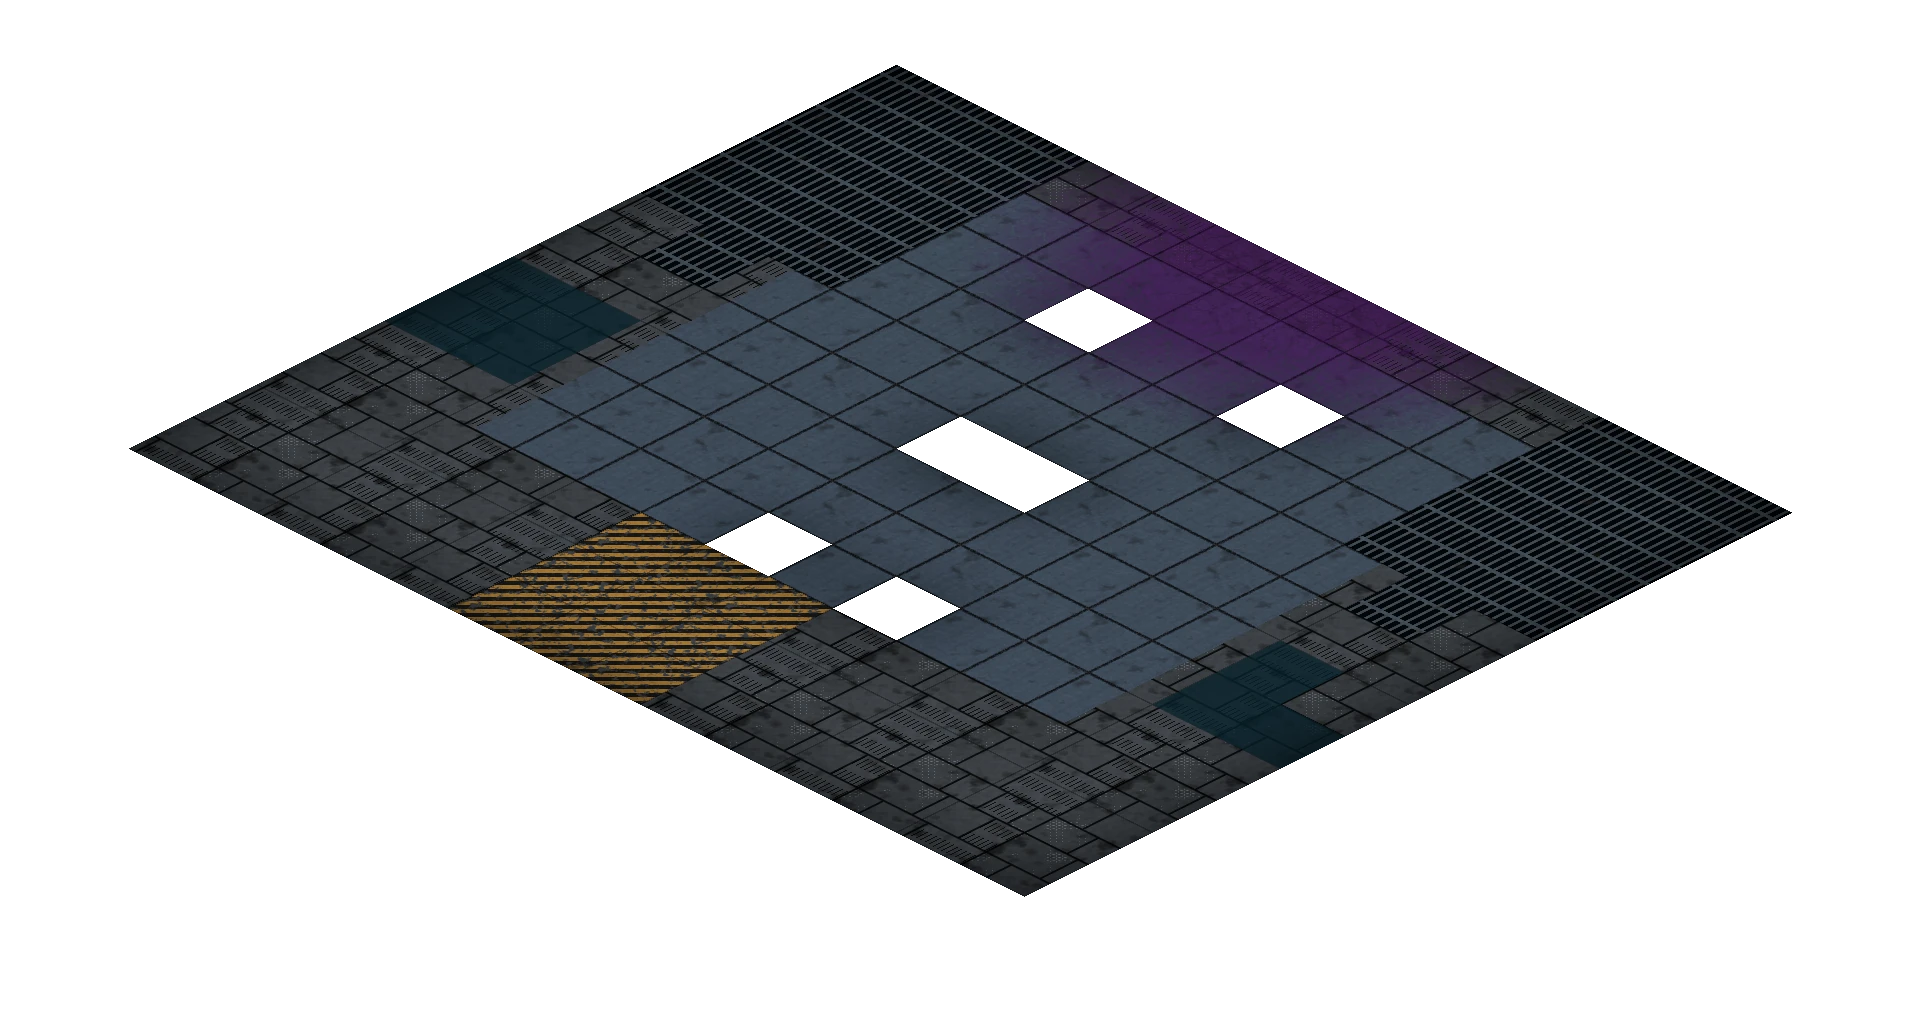
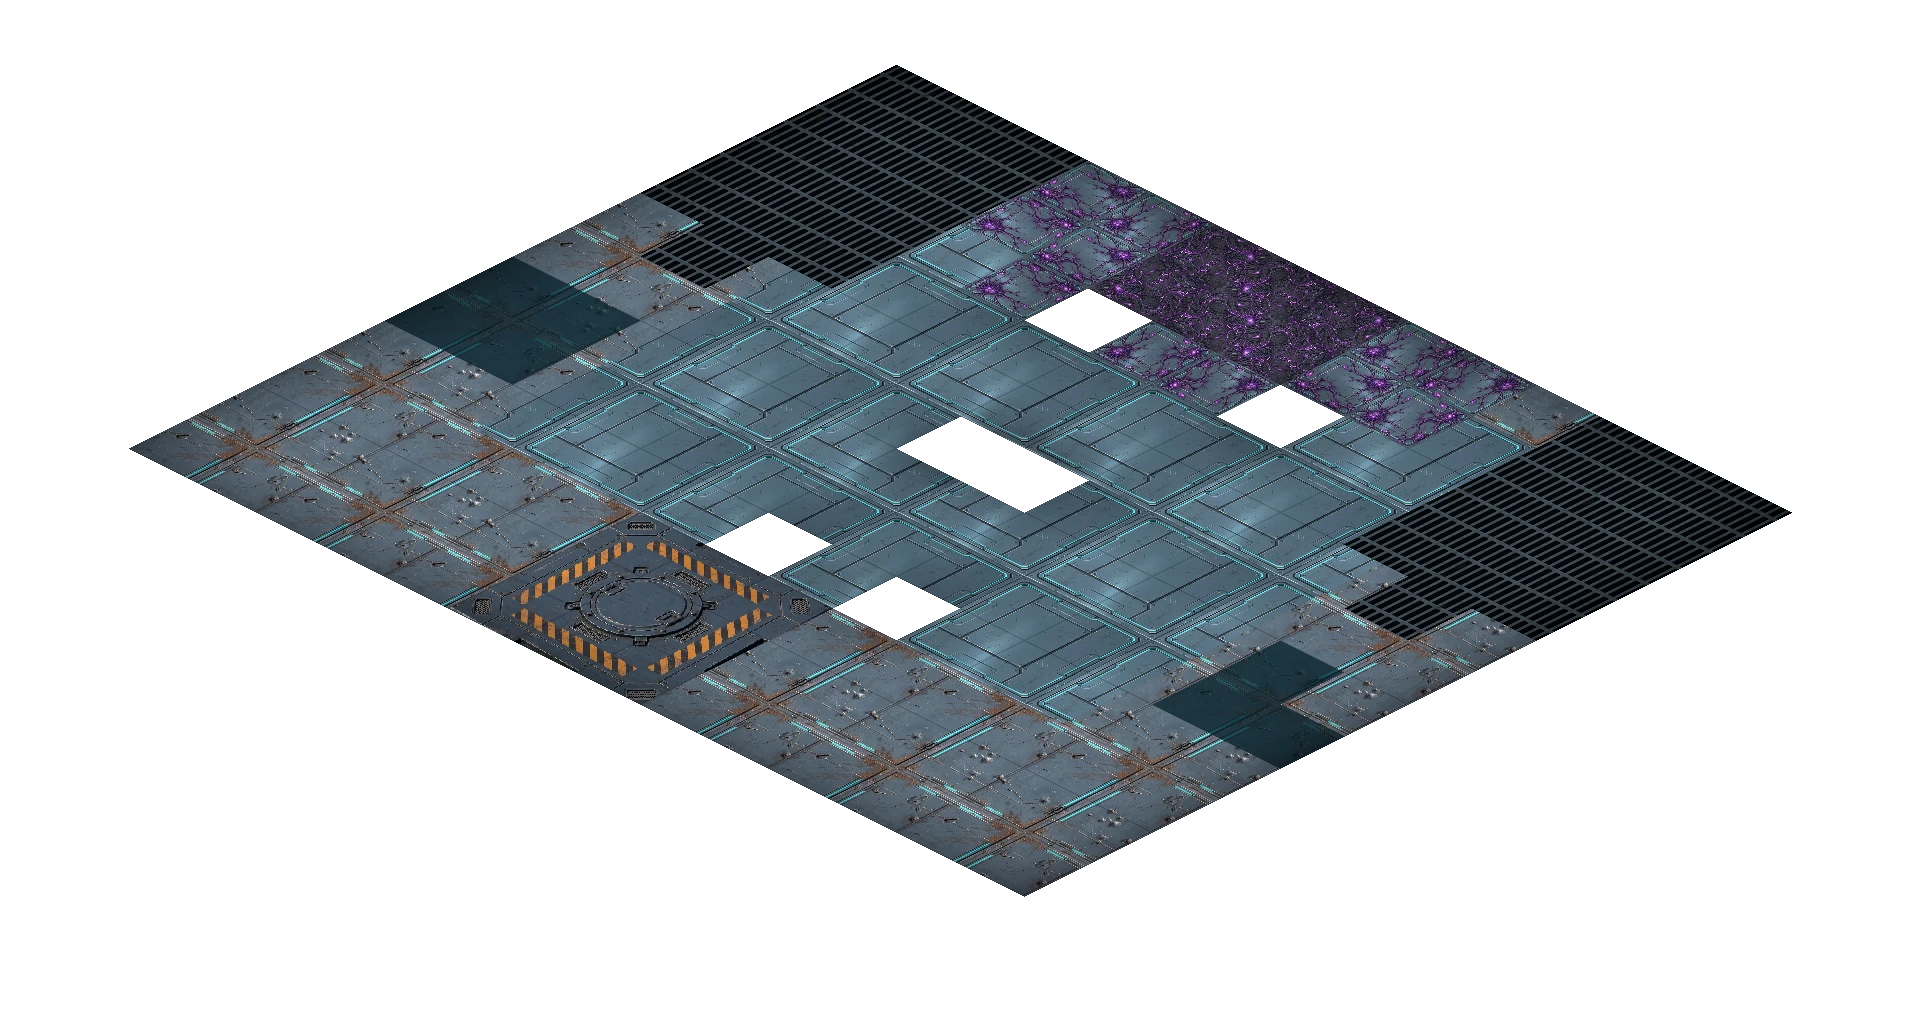
Démo Némésis : sol refait avec les dalles isométriques de Max
- tools/iso_tile.py : face du dessus d'une dalle ramenée au losange 2:1
- assets2d/tiles : métal propre, abîmé, contaminé, roche alien, trappe du sas
- sol précalculé par zones (centre, pourtour, sas 3×3, contamination autour de la cuve)

Claude-Session: https://claude.ai/code/session_017NXKp2adArjCmDg9N26bo3

Changed region(s): [[0.0625, 0.1562, 0.8438, 0.875]]

diff --git a/tools/build_phaser_nemesis.py b/tools/build_phaser_nemesis.py
@@ -34,6 +34,10 @@ def nemesis_map():
     return re.findall(r"'([^']+)'", block)
 
 
+def ndimage_blur(a, s):
+    return np.asarray(Image.fromarray((np.clip(a, 0, 1) * 255).astype(np.uint8)).filter(ImageFilter.GaussianBlur(s)), np.float32) / 255
+
+
 def tex(name, size=None):
     im = Image.open(os.path.join(SRC, "textures", name + ".png")).convert("RGB")
     a = np.asarray(im, dtype=np.float32) / 255.0
@@ -94,6 +98,51 @@ def bake_floor(rows):
     col[mat == 1] = (col[mat == 1] * 0.45 + g1 * 0.55) * np.array([0.78, 0.86, 0.95])
     col[mat == 2] *= 0.8
 
+    # Dalles isométriques de Max (assets2d/tiles, extraites par tools/iso_tile.py) : chacune couvre S×S cases,
+    # alignée sur la grille ; les dalles contaminées varient par miroir pour éviter la répétition.
+    D = [(x, y) for y, r in enumerate(rows) for x, c in enumerate(r) if c == "D"][0]
+    dist = np.hypot(gx - D[0], (gy - D[1]) * 1.15)
+    tdist = np.hypot(txc - D[0], (tyc - D[1]) * 1.15)
+    tiles_dir = os.path.join(ROOT, "assets2d", "tiles")
+    evac = [(x, y) for y, r in enumerate(rows) for x, c in enumerate(r) if c in "ES"]
+    ex0, ey0 = min(p[0] for p in evac), min(p[1] for p in evac)
+    plan = [  # (masque de cases, dalle, S, ancre fixe ou None)
+        ((mat == 0) & (tdist >= 3.3), "metal_abime", 2, None),
+        ((mat == 1) & (tdist >= 3.3), "metal_propre", 2, None),
+        ((mat == 3), "trappe_sas", 3, (ex0, ey0)),
+        (np.isin(mat, [0, 1]) & (tdist < 3.3) & (tdist >= 1.6), "metal_contamine", 1, None),
+        (np.isin(mat, [0, 1]) & (tdist < 1.6), "rock_alien", 1, None),
+    ]
+    for m, name, span, anchor in plan:
+        path = os.path.join(tiles_dir, name + ".png")
+        if not os.path.exists(path):
+            continue
+        t = np.asarray(Image.open(path).convert("RGBA"), np.float32) / 255
+        th, tw = t.shape[:2]
+        lum = t[..., :3].mean(axis=2)
+        gyl, gxl = np.gradient(ndimage_blur(lum, 1.2))
+        tn = np.dstack([-gxl * 6, -gyl * 6, np.ones_like(lum)])
+        tn /= np.linalg.norm(tn, axis=2, keepdims=True)
+        if anchor:
+            bx, by = anchor[0], anchor[1]
+        else:
+            bx, by = (txc // span) * span, (tyc // span) * span
+        u = (gx + 0.5 - bx) / span
+        v = (gy + 0.5 - by) / span
+        if span == 1:  # miroirs selon la case
+            hv = (txc * 7 + tyc * 13) % 4
+            sw = (hv & 1) == 1
+            u, v = np.where(sw, v, u), np.where(sw, u, v)
+            fl = (hv & 2) == 2
+            u, v = np.where(fl, 1 - v, u), np.where(fl, 1 - u, v)
+        u, v = np.clip(u, 0, 1), np.clip(v, 0, 1)
+        px = np.clip(((u - v) * 0.5 + 0.5) * (tw - 1), 0, tw - 1).astype(int)
+        py = np.clip((u + v) * 0.5 * (th - 1), 0, th - 1).astype(int)
+        col[m] = t[py[m], px[m], :3]
+        nor[m] = tn[py[m], px[m]] * 0.5 + 0.5
+        mat[m] = 10  # déjà en coordonnées écran : pas de rotation de normale
+    tile_done = mat == 10
+
     # eau : fond sombre bleu-vert (la surface animée est faite dans le jeu)
     water = inside & (ch == "~")
     col[water] = col[water] * 0.25 + np.array([0.02, 0.10, 0.13])
@@ -108,19 +157,10 @@ def bake_floor(rows):
     ao = 1.0 - 0.62 * blur[bi, bj]
     col *= ao[..., None]
 
-    # contamination autour de la cuve (artefact D) et du nid de la Carapace : chair alien violacée
-    flesh = tex("flesh_albedo")
-    D = [(x, y) for y, r in enumerate(rows) for x, c in enumerate(r) if c == "D"][0]
-    dist = np.hypot(gx - D[0], (gy - D[1]) * 1.15)
-    noise = flesh[np.clip(((gy * 0.37) % 1 * 511).astype(int), 0, 511), np.clip(((gx * 0.37) % 1 * 511).astype(int), 0, 511), 0]
-    k = np.clip((3.4 - dist) / 2.2 + (noise - 0.5) * 0.9, 0, 1) * (mat != 4)
-    purple = np.array([0.20, 0.07, 0.26]) * (0.6 + noise[..., None])
-    col = col * (1 - 0.75 * k[..., None]) + purple * (0.75 * k[..., None])
-
     # joints de grille très discrets (lisibilité tactique sans quadrillage criard)
     fx, fy = np.abs(gx - np.rint(gx)), np.abs(gy - np.rint(gy))
     seam = ((fx > 0.485) | (fy > 0.485)) & (mat != 4) & ~water
-    col[seam] *= 0.7
+    col[seam] *= 0.82
 
     alpha = (inside & (mat != 4)).astype(np.float32)
     # bord adouci sous les cloisons (aucun liseré)
@@ -136,6 +176,8 @@ def bake_floor(rows):
     nz = n[..., 2] * 1.6               # sol vu de 3/4 : relief adouci
     l = np.sqrt(nx ** 2 + ny ** 2 + nz ** 2) + 1e-6
     nmap = np.dstack([nx / l, -ny / l, nz / l]) * 0.5 + 0.5
+    nmap[tile_done] = nor[tile_done] * np.array([1, 1, 1])  # dalles : normales déjà en espace écran
+    nmap[tile_done, 1] = 1 - nmap[tile_done, 1]
     nmap[~(alpha > 0)] = [0.5, 0.5, 1.0]
     nimg = Image.fromarray((nmap * 255).astype(np.uint8), "RGB")
     save(floor, "floor.webp", 90)

diff --git a/tools/iso_tile.py b/tools/iso_tile.py
@@ -1,0 +1,57 @@
+"""Extrait la face supérieure d'une dalle isométrique (image sur fond clair uni) et la redresse en losange 2:1.
+
+Usage : python3 -I tools/iso_tile.py dalle.jpg sortie.png [--size 512]
+Sortie : losange RGBA de size × size/2 (sommet haut = coin nord de la case), prêt à être plaqué par
+tools/build_phaser_nemesis.py. Les dalles des générateurs n'ont pas toujours un rapport 2:1 exact :
+la face est repérée par ses coins (haut, gauche, droit), puis une transformation affine la ramène au 2:1.
+"""
+import sys
+
+import numpy as np
+from PIL import Image, ImageDraw
+from scipy import ndimage
+
+
+def corners(img):
+    a = np.asarray(img.convert("RGB")).astype(np.float32)
+    bg = np.median(np.concatenate([a[:8].reshape(-1, 3), a[-8:].reshape(-1, 3)]), axis=0)
+    diff = np.abs(a - bg).max(axis=2)
+    m = ndimage.binary_opening(diff > 28, iterations=2)
+    lab, n = ndimage.label(m)
+    m = lab == (1 + np.argmax(ndimage.sum(m, lab, range(1, n + 1))))
+    ys, xs = np.nonzero(m)
+    top = (xs[ys == ys.min()].mean(), ys.min())
+    # gauche / droite : point le plus haut de la colonne extrême (la tranche de la dalle descend en dessous)
+    lx, rx = xs.min(), xs.max()
+    left = (lx, ys[xs <= lx + 2].min())
+    right = (rx, ys[xs >= rx - 2].min())
+    return np.array(top, float), np.array(left, float), np.array(right, float)
+
+
+def extract(src, size=512):
+    img = Image.open(src).convert("RGB")
+    t, l, r = corners(img)
+    # léger retrait vers l'intérieur pour éviter le liseré de la tranche
+    c = (l + r) / 2
+    t, l, r = c + (t - c) * 0.985, c + (l - c) * 0.985, c + (r - c) * 0.985
+    W, H = size, size // 2
+    # destination : haut (W/2, 0), gauche (0, H/2), droite (W, H/2)
+    D = np.array([[W / 2, 0, 1], [0, H / 2, 1], [W, H / 2, 1]], float)
+    S = np.array([t, l, r])
+    M = np.linalg.solve(D, S)  # (x', y', 1) @ M = (sx, sy)
+    coeffs = (M[0, 0], M[1, 0], M[2, 0], M[0, 1], M[1, 1], M[2, 1])
+    out = img.transform((W, H), Image.AFFINE, coeffs, resample=Image.BICUBIC).convert("RGBA")
+    mask = Image.new("L", (W, H), 0)
+    ImageDraw.Draw(mask).polygon([(W / 2, 0), (W, H / 2), (W / 2, H), (0, H / 2)], fill=255)
+    out.putalpha(mask)
+    return out, (t, l, r)
+
+
+if __name__ == "__main__":
+    args = sys.argv[1:]
+    size = 512
+    if "--size" in args:
+        i = args.index("--size"); size = int(args[i + 1]); del args[i:i + 2]
+    im, c = extract(args[0], size)
+    im.save(args[1])
+    print(args[1], [tuple(round(v) for v in p) for p in c])

diff --git a/docs/PHASER4-NEMESIS.md b/docs/PHASER4-NEMESIS.md
@@ -8,6 +8,10 @@ jouable au doigt, sur la même simulation TypeScript et le même HUD que le prot
 - Ressources : `python3 -I tools/build_phaser_nemesis.py` → `phaser/public/nemesis/` (2,8 Mo, relançable, rien d'autre n'est écrit).
 - Tests : Vitest (2 nouveaux tests Némésis dans `tests/engine.test.ts`), Playwright `e2e/nemesis.spec.ts` (toucher, aperçu, confirmation, tour alien, 0 erreur).
 
+## Dalles de sol de Max (26/11, 6 h 50)
+- 6 dalles isométriques reçues (2 identiques) → `tools/iso_tile.py` repère la face du dessus et la ramène au losange 2:1 → `assets2d/tiles/` (512×256, versions allégées ; masters dans `~/abyss_masters/floors`).
+- Sol précalculé : métal propre (centre, 2×2 cases par dalle), métal abîmé (pourtour, 2×2), trappe sur tout le sas (3×3), métal contaminé puis roche alien en se rapprochant de la cuve (1 case, miroirs pour varier). Normal map tirée du relief de chaque dalle.
+
 ## Ce qui est en place
 - **Simulation** : `NEMESIS_MAP` (même plan que `godot/sim/data.gd`), `createBattle(seed, 'nemesis')`, 3 aliens fixes renforcés (valeurs Godot). Sauvegarde séparée (`nemesis.*`).
 - **Rendu** (`src/nemesis/NemesisScene.ts`, contrat `src/game/view.ts` partagé avec le prototype) :
